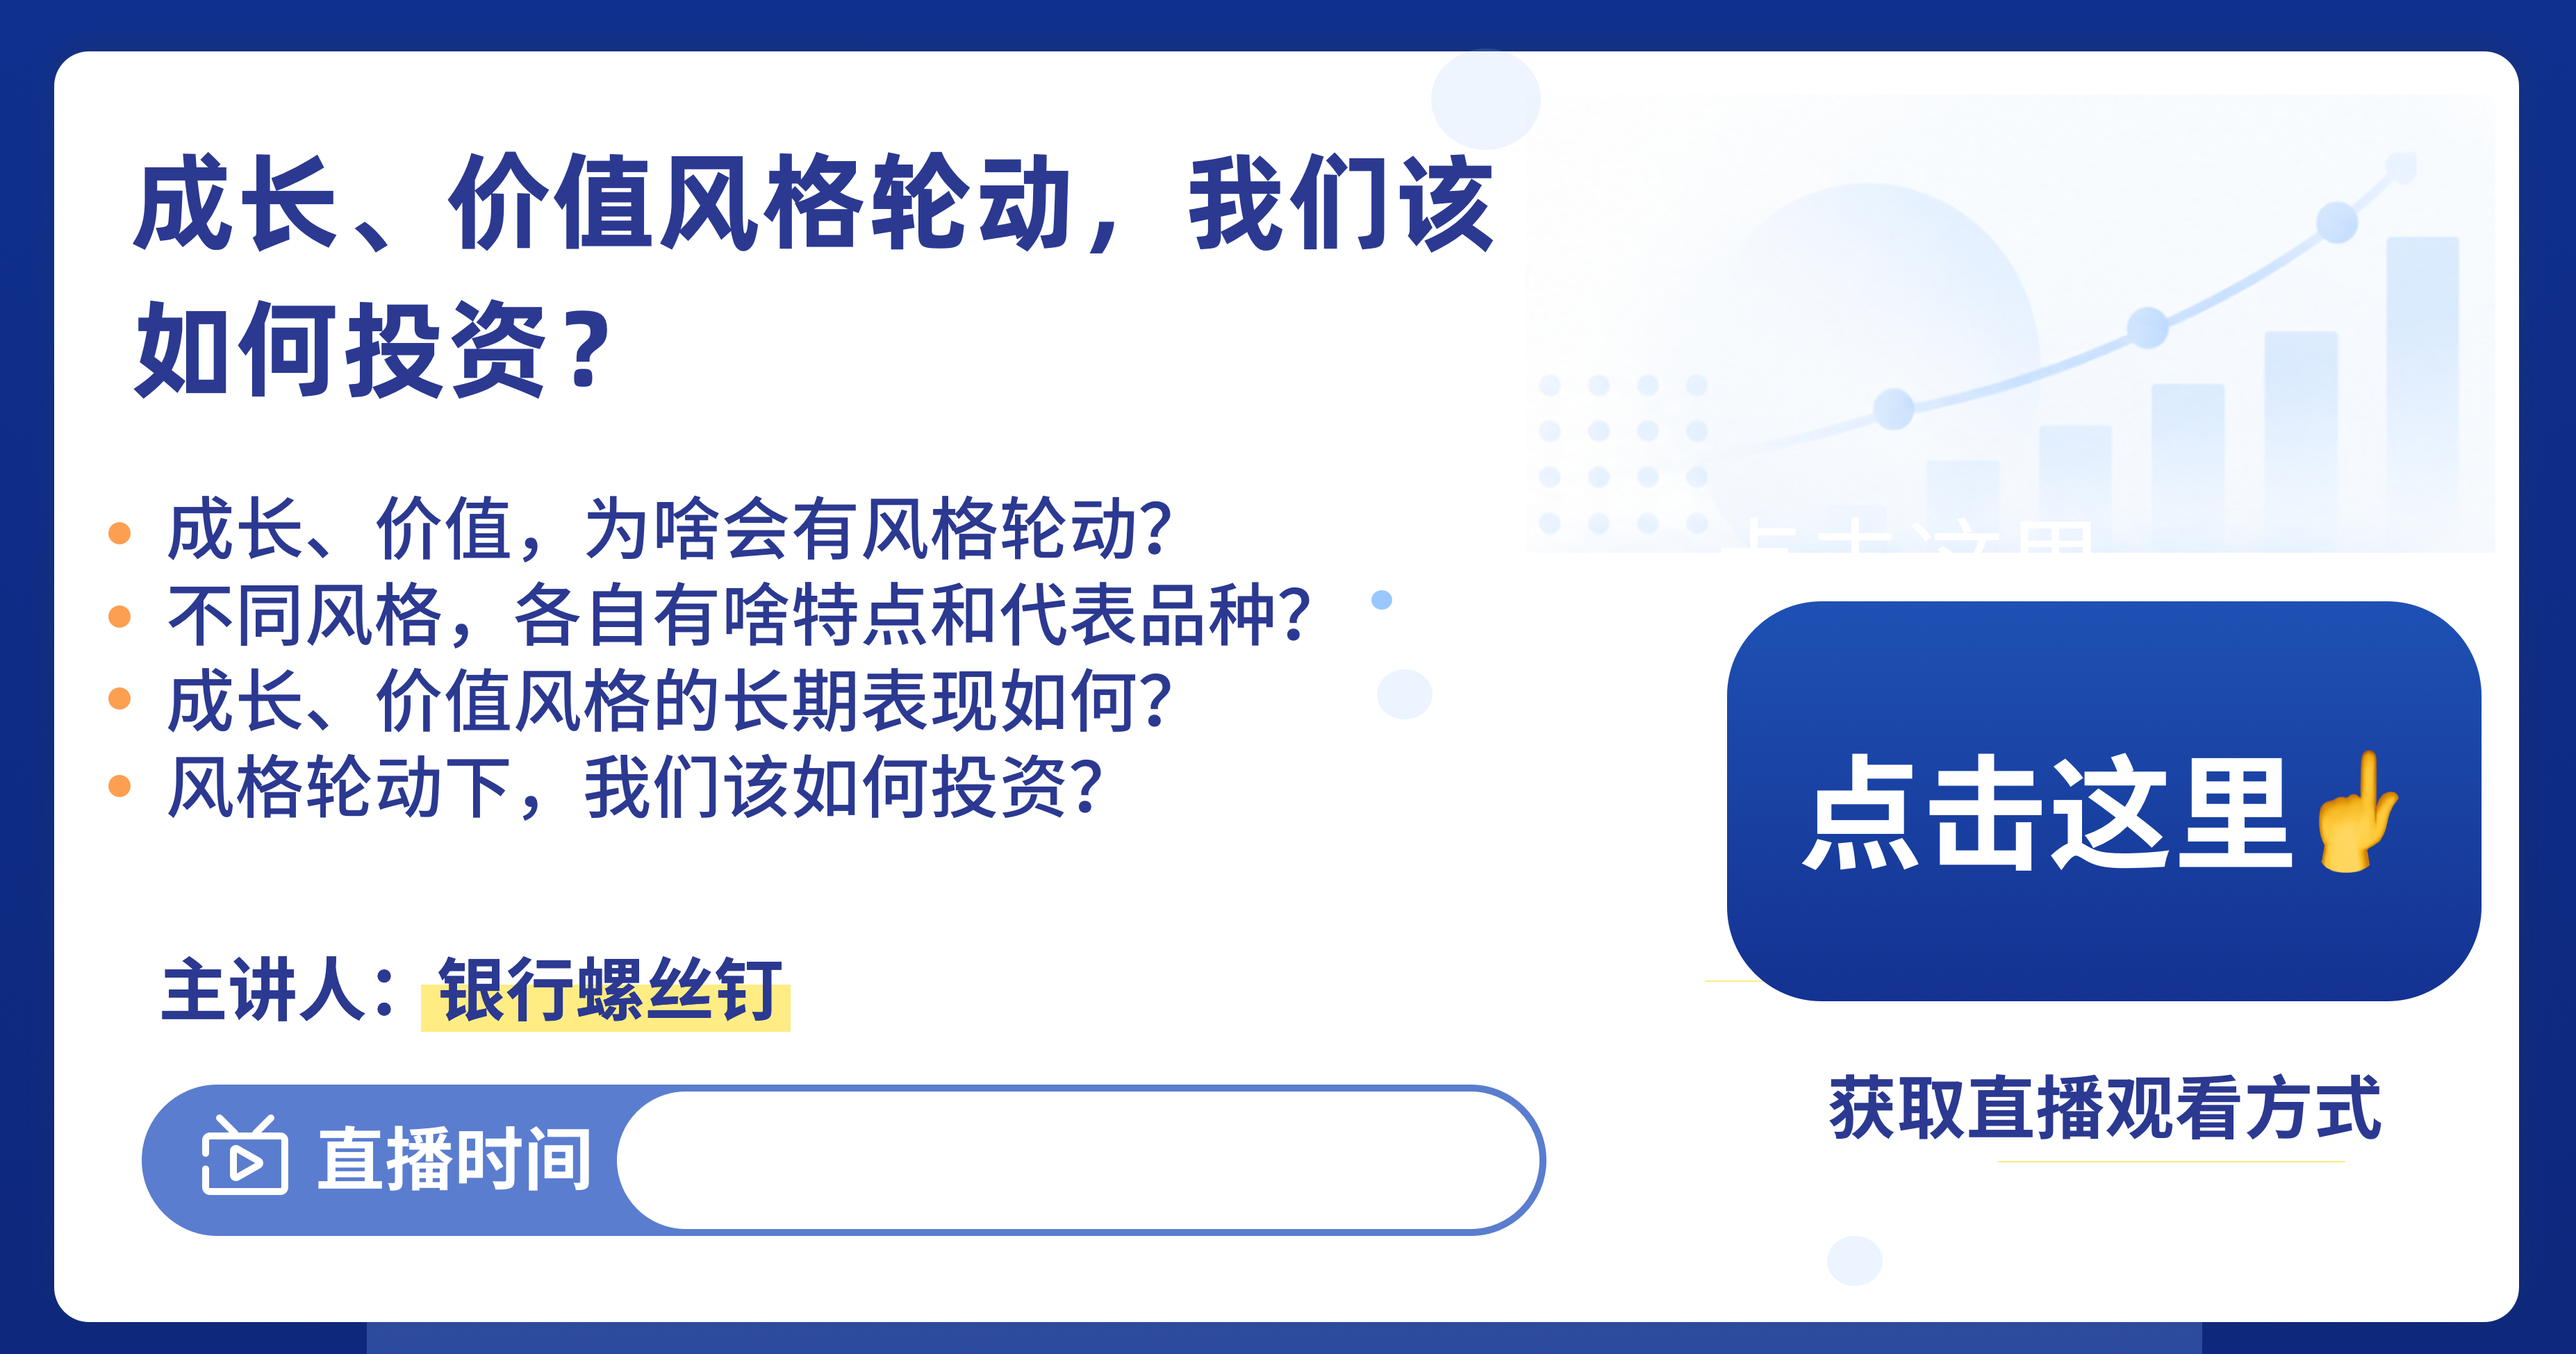
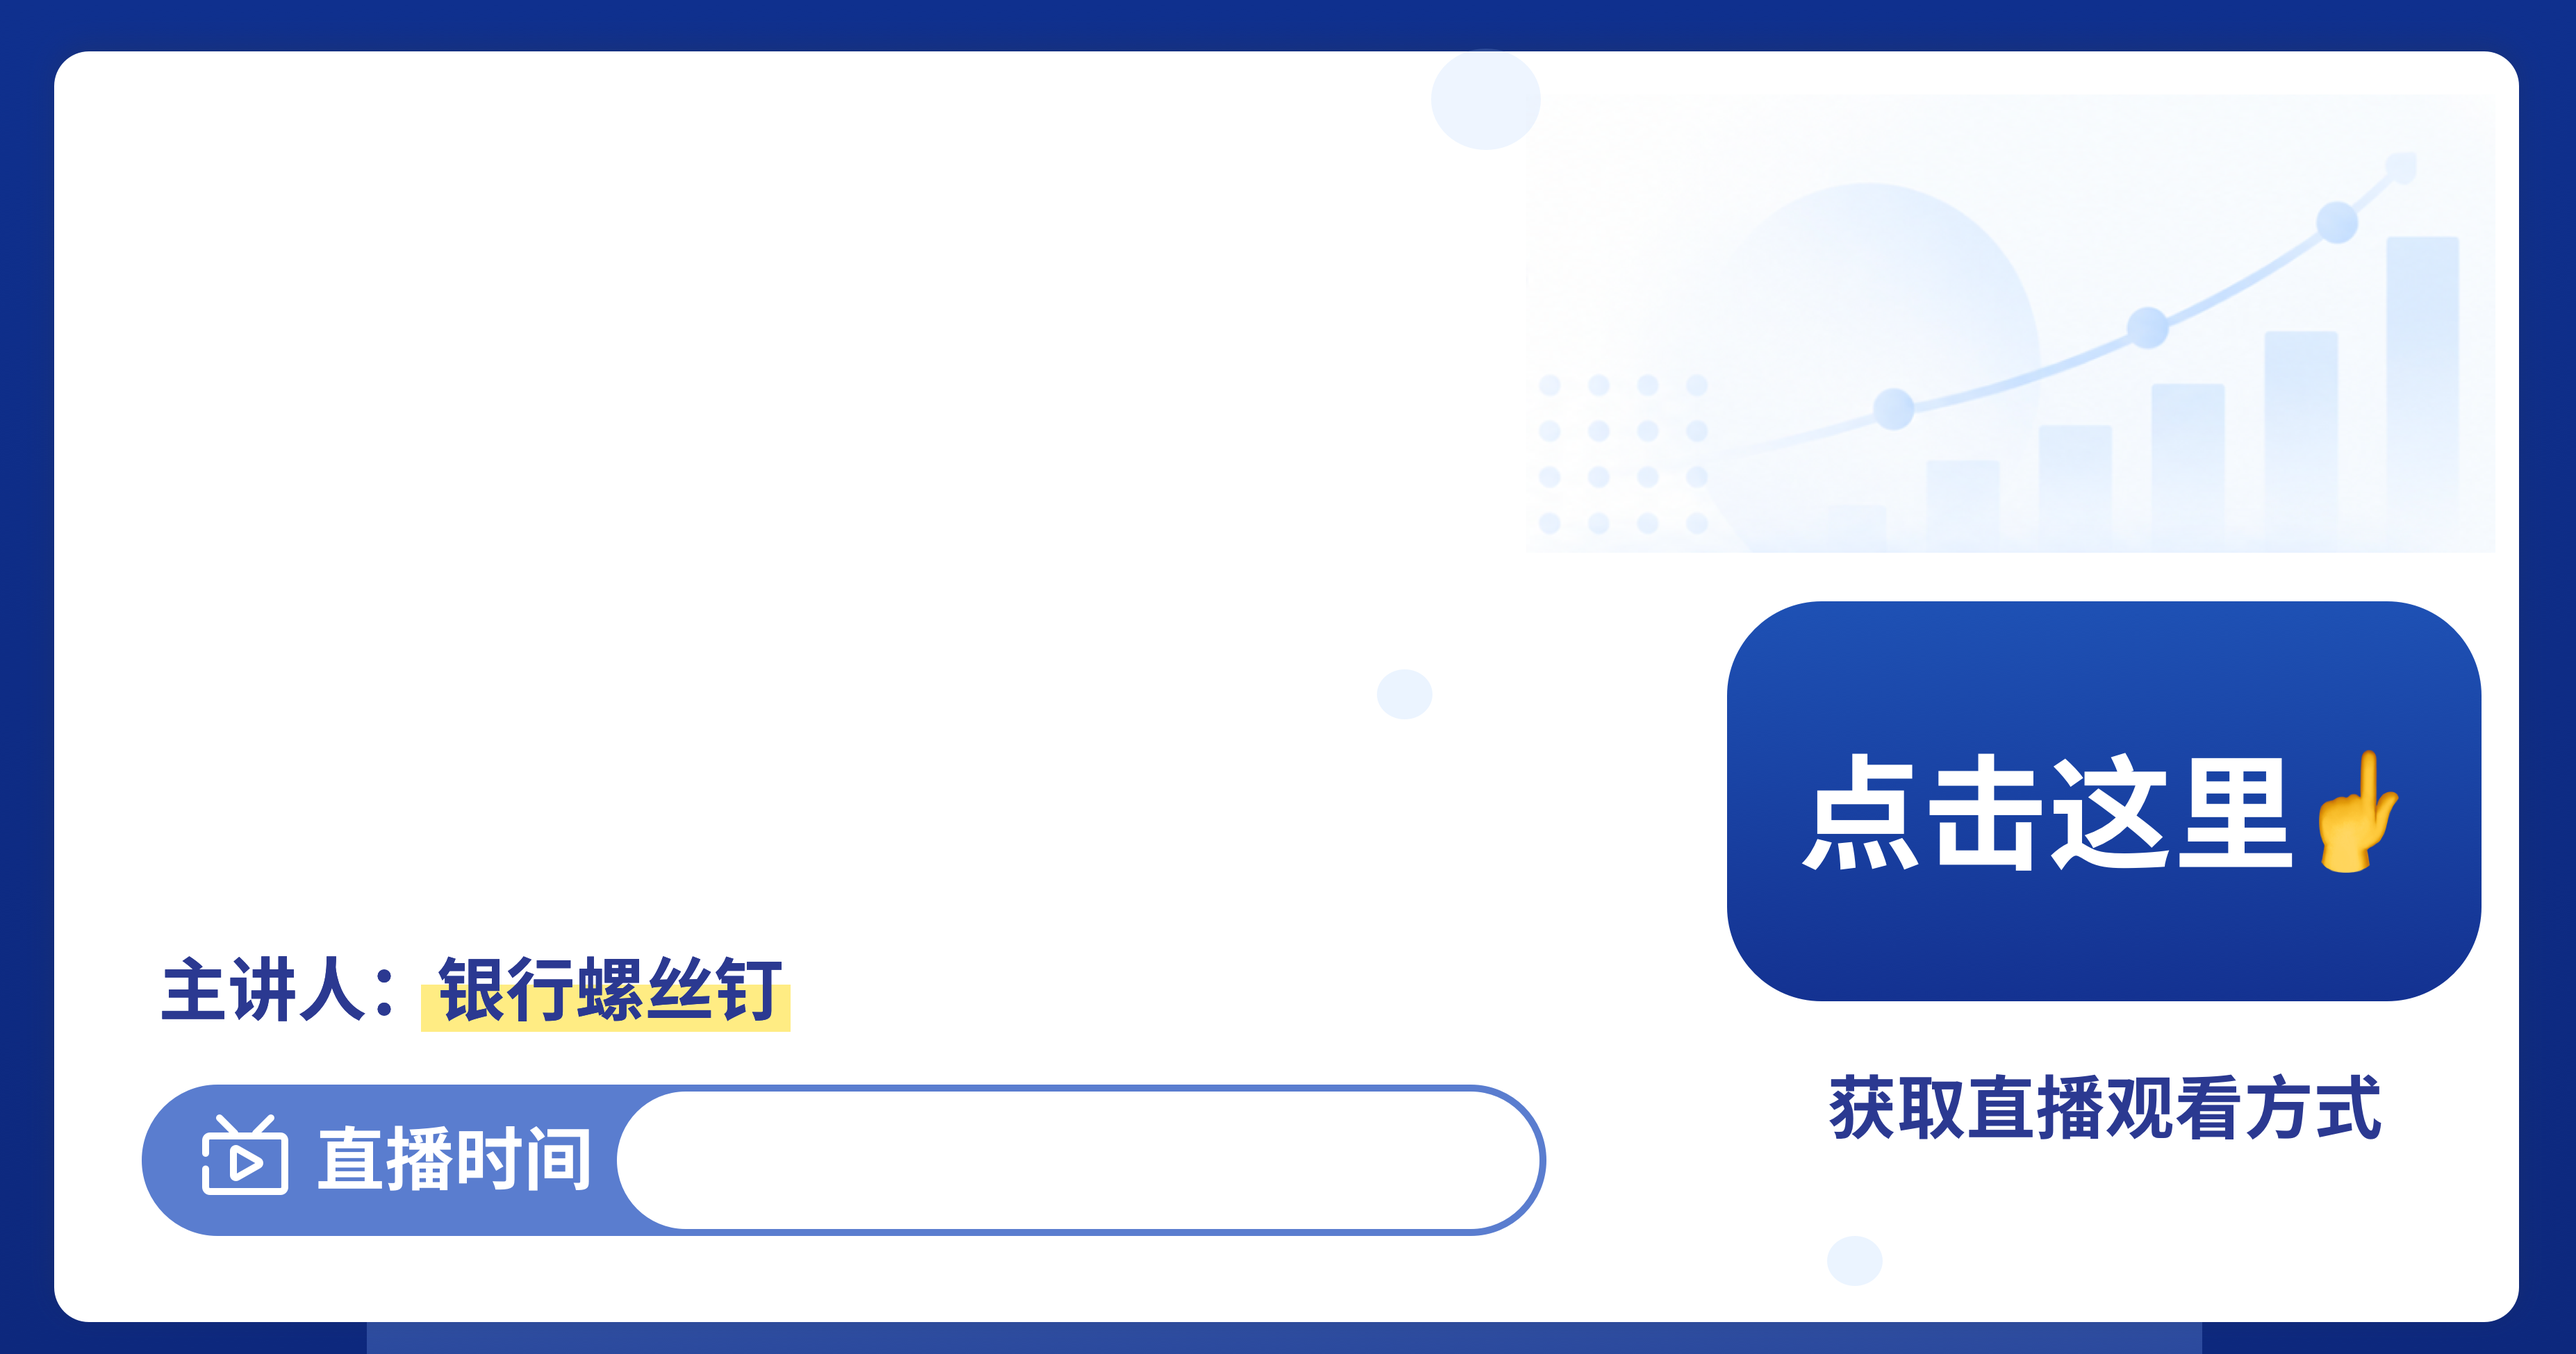
Update poster templates and announcement formatting

diff --git a/template_config.py b/template_config.py
@@ -32,7 +32,7 @@ TEMPLATES_CONFIG = {
         "path": "template_new_5.png",
         "qr_box": [290, 2654, 408, 408],
         "time_box": [1000, 2400, 1180, 158],
-        "date_code_box": [1088, 2871, 458, 106],
+        "date_code_box": [1065, 2871, 504, 106],
         "title_x": 226,
         "title_y": 1354,
         "title_max_width": 2110,
@@ -90,13 +90,6 @@ TEMPLATES_CONFIG = {
         "title_y": 219,
         "title_max_width": 1980,
         "balance_two_line_title": True,
-        # The 2026-09-10 supplied horizontal background retains sample text.
-        # Clear only those two left-side sample-text areas before drawing live data.
-        "clear_placeholder_text_regions": [
-            [120, 120, 2050, 540],
-            [120, 670, 1850, 570],
-        ],
-        "restore_template_regions": [[2050, 50, 190, 160]],
         "caption_max_width": 1900,
         "caption_item_gap_max": 40,
         "caption_item_gap_min": 18,
